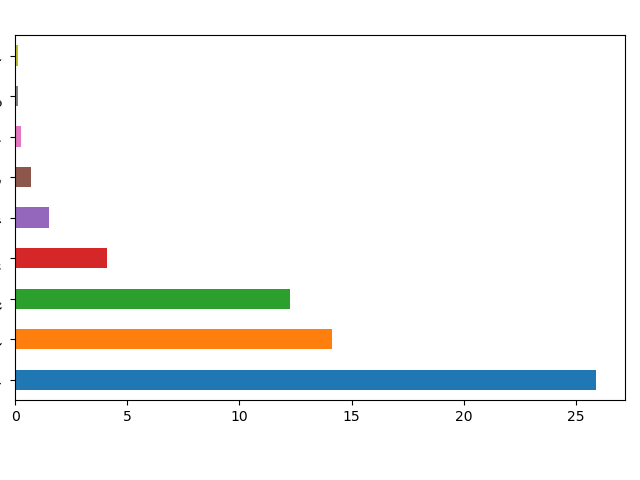
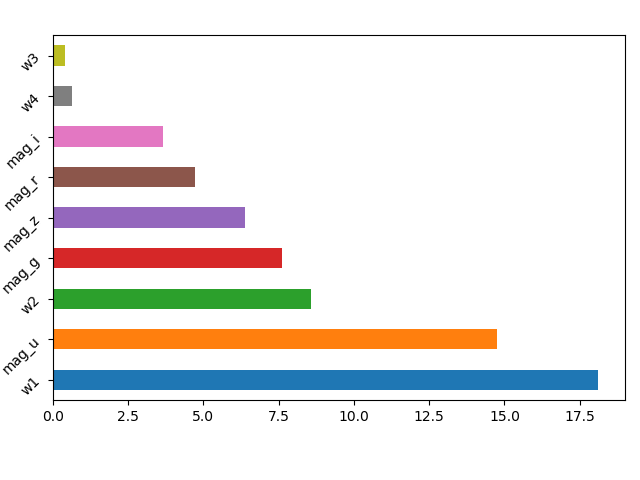
added RF pipeline to ML_basic

diff --git a/ML_basic.py b/ML_basic.py
@@ -229,7 +229,7 @@ def SVC_classifier(data,train_percent,additionalFeatures=False):
 
 if __name__ == "__main__":
     
-    input_table = 'test_query_table_100k'
+    input_table = '../moreData/test_query_table_1M'
     trim_columns=['#ra', 'dec', 'z', 'peak','integr','rms','subclass']
 
     
@@ -243,6 +243,11 @@ if __name__ == "__main__":
     classes_pred,accuracy_SVC,f1_SVC = SVC_classifier(data,train_percent=0.7,additionalFeatures=True)
     print('The accuracy of SVC is a = '+str(accuracy_SVC))
     print('The f1 score of SVC is a = '+str(f1_SVC))
+    
+    classes_pred_RF,accuracy_RF,f1_RF = RF_pipeline(data,train_percent=0.7,additionalFeatures=True)
+    print('The accuracy of SVC is a = '+str(accuracy_SVC))
+    print('The f1 score of SVC is a = '+str(f1_SVC))
+    
     
     
     
